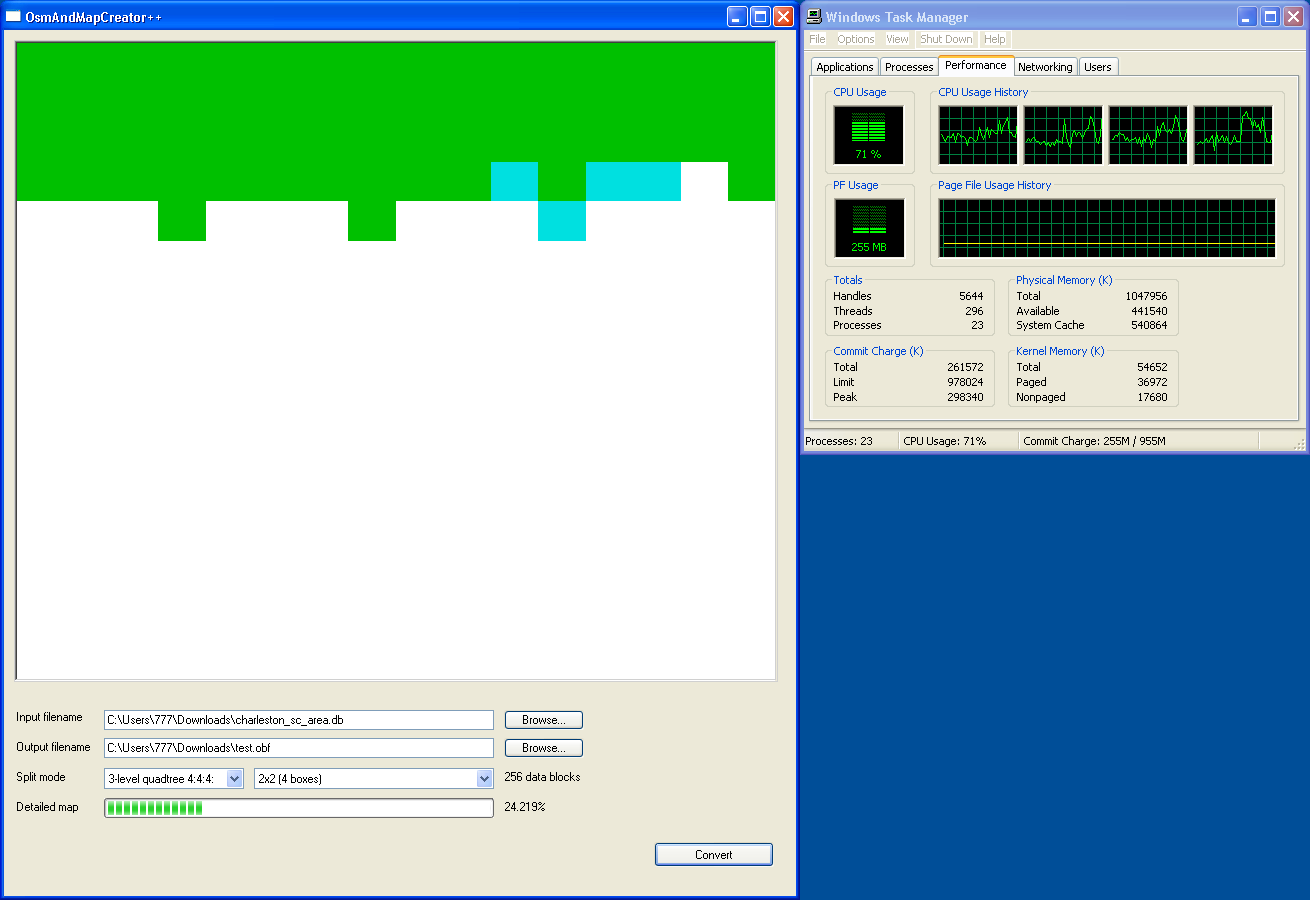
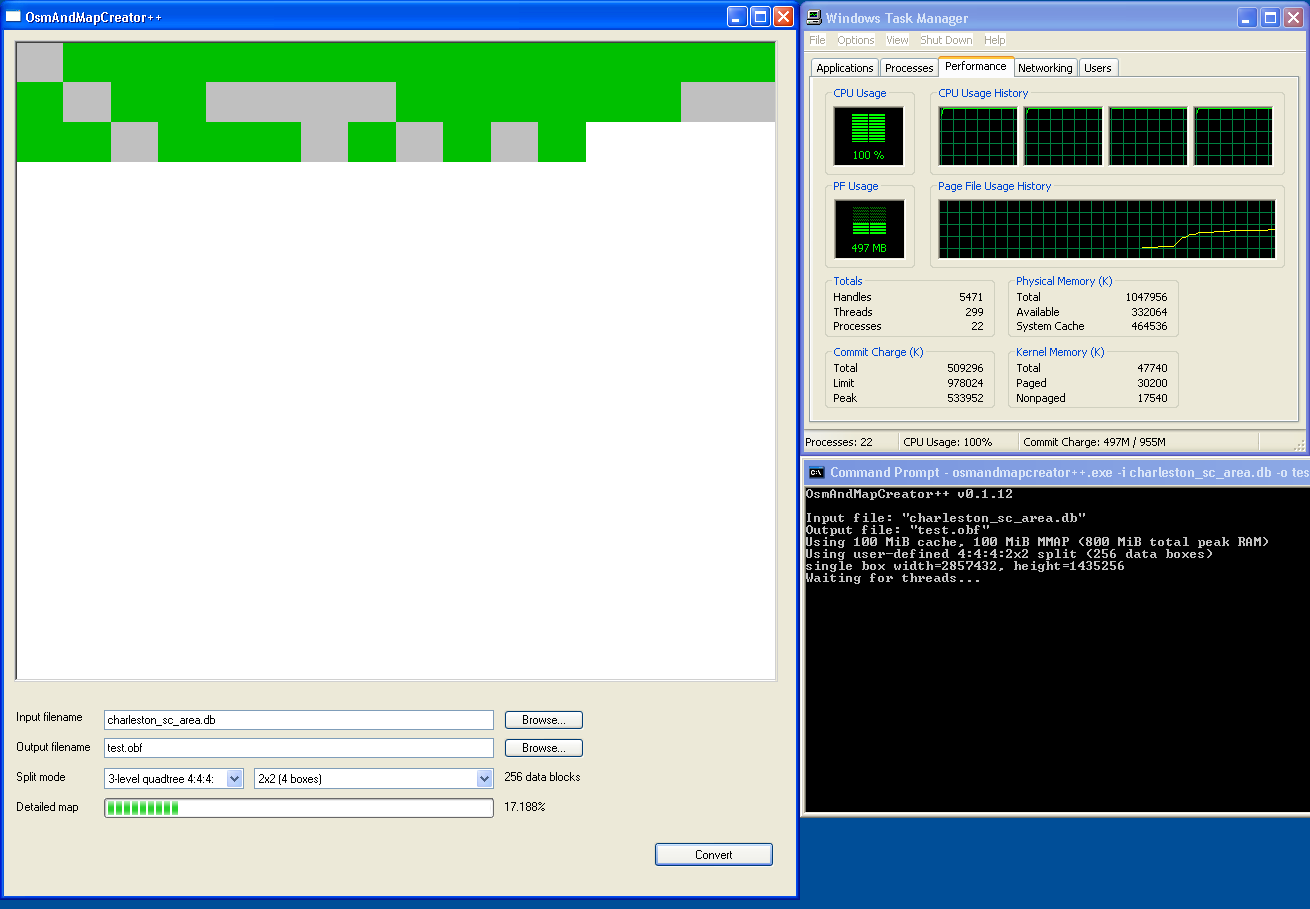
Add SQLite cache options

diff --git a/main.cpp b/main.cpp
@@ -232,6 +232,8 @@ static bool shouldShowGUI = true;
 static unsigned int guiSelectedQuadtreeSplit = 0;
 static unsigned int guiSelectedSplitWithinQuadtree = 0;
 uint32_t pid = 0;
+uint64_t sqliteCacheSizeMiBPerThread = 64;
+uint64_t sqliteMMAPSizeMiBPerThread = 64;
 
 #define ID_STARTBTN 1
 #define ID_INPUT_FILENAME_FIELD 2
@@ -275,7 +277,7 @@ bool foundInputFilenameArgument = false;
 bool foundOutputFilenameArgument = false;
 
 int main(int argc, char** argv) {
-	cout << "OsmAndMapCreator++ v0.1.11" << endl;
+	cout << "OsmAndMapCreator++ v0.1.12" << endl;
 	#if defined(_WIN32)
 		pid = GetCurrentProcessId();
 	#elif defined(__linux__)
@@ -345,6 +347,16 @@ int main(int argc, char** argv) {
 			
 			if ((arg_view == "-verbose"sv || arg_view == "--verbose"sv || arg_view == "/verbose"sv)) {
 				verbose = true;
+			}
+
+			if ((arg_view == "-cache-size"sv || arg_view == "--cache-size"sv || arg_view == "/cache-size"sv) && i < (argc - 1)) {
+				sqliteCacheSizeMiBPerThread = atoi(argv[i + 1]);
+				if (sqliteCacheSizeMiBPerThread == 0) sqliteCacheSizeMiBPerThread = 64;
+			}
+
+			if ((arg_view == "-mmap-size"sv || arg_view == "--mmap-size"sv || arg_view == "/mmap-size"sv) && i < (argc - 1)) {
+				sqliteMMAPSizeMiBPerThread = atoi(argv[i + 1]);
+				if (sqliteMMAPSizeMiBPerThread == 0) sqliteMMAPSizeMiBPerThread = 64;
 			}
 		}
 	}
@@ -449,6 +461,7 @@ void createOBFFile(void *param) {
 
 	cout << endl << "Input file: \"" << inputFilename << "\"";
 	cout << endl << "Output file: \"" << outputFilename << "\"";
+	cout << endl << "Using " << sqliteCacheSizeMiBPerThread << " MiB cache, " << sqliteMMAPSizeMiBPerThread << " MiB MMAP (" << ((sqliteCacheSizeMiBPerThread + sqliteMMAPSizeMiBPerThread) << 2) << " MiB total peak RAM)";
 
 	unique_ptr<unsigned char[]> fileCopyBufferUniquePtr = make_unique<unsigned char[]>(FILE_COPY_BUFFER_SIZE);
 	unique_ptr<unsigned char[]> coordinatesByteArrayTmpUniquePtr = make_unique<unsigned char[]>(1048576);
@@ -784,7 +797,7 @@ void calculateTotalRectanglesForGUI() {
 #endif
 
 void printHelp() {
-	cout << "OsmAndMapCreator++ version 0.1.11";
+	cout << "OsmAndMapCreator++ version 0.1.12";
 	cout << endl << endl << "This utility generates OBF map files for OsmAnd from an OpenStreetMap SQLite database";
 	cout << endl << endl << "Usage:";
 	cout << endl << "\t-i [path]\t\t\t\tInput filename (required)";
@@ -794,6 +807,9 @@ void printHelp() {
 	cout << endl << "\t--force-quadtree2-split [integer]\tForce a 2-level quadtree split with a power-of-2 split in each section (for example, 2 would be 4:4:4x4). Takes precedence when combined with --force-single-split";
 	cout << endl << "\t--force-quadtree3-split [integer]\tForce a 3-level quadtree split with a power-of-2 split in each section (for example, 2 would be 4:4:4:4x4). Takes precedence when combined with --force-quadtree2-split or --force-single-split";
 	cout << endl << "\t--no-gui\t\t\t\tOnly show the command-line window";
+	cout << endl << "\t--verbose\t\t\t\tPrint debug messages";
+	cout << endl << "\t--cache-size\t\t\t\tSQLite per-thread cache size in MiB (default 64)";
+	cout << endl << "\t--mmap-size\t\t\t\tSQLite per-thread memory-mapped file size in MiB (default 64)";
 	cout << endl << "\t-h\t\t\t\t\tPrint this message";
 }
 
@@ -2144,6 +2160,9 @@ void writeOsmAndStructure_mapIndex_levels_block_SingleSplitThreadWorker(void *pa
 	char *errorMessage = 0;
 	//Get a list of all the way ID's
 	//Use the first node to see if the way should be included in the current block
+	sqlite3_exec(ptr->dbConnection, string("PRAGMA cache_size = -" + to_string(sqliteCacheSizeMiBPerThread << 10) + ";").c_str(), NULL, 0, &errorMessage);
+	sqlite3_exec(ptr->dbConnection, string("PRAGMA mmap_size = " + to_string(sqliteMMAPSizeMiBPerThread << 20) + ";").c_str(), NULL, 0, &errorMessage);
+	sqlite3_exec(ptr->dbConnection, "PRAGMA journal_mode=WAL;", NULL, 0, &errorMessage);
 	sqlite3_exec(ptr->dbConnection, "CREATE TEMP TABLE waysWithinRectangle (way_id INTEGER PRIMARY KEY);", NULL, 0, &errorMessage);
 	if (!ptr->mediumZoom) {
 		sqlite3_prepare_v2(ptr->dbConnection, "INSERT INTO waysWithinRectangle (way_id) SELECT w.way_id FROM way_nodes w INNER JOIN rtree_node r ON r.node_id = w.node_id WHERE w.node_order = 1 AND r.max_lat >= :bottom AND r.min_lat <= :top AND r.max_lon >= :left AND r.min_lon <= :right;", -1, &waysWithinRectangleStmt, 0);

diff --git a/README.md b/README.md
@@ -1,13 +1,16 @@
 OsmAndMapCreator++
 ==================
 
-OsmAndMapCreator++ is an unofficial utility that generates OsmAnd OBF maps from OpenStreetMap SQLite databases. It is written in C++ and designed to be small and efficient and support generating large areas like the entire southeast US as one map by reading everything from an SQLite database and storing temp files on the hard drive instead of trying to load everything in memory first like the official tool. Built with Clang 22.1.5 and Visual C++ 2017 and works on Windows XP x64 or higher
+OsmAndMapCreator++ is an unofficial utility that generates OsmAnd OBF maps from OpenStreetMap SQLite databases. It is written in C++ and designed to be small and efficient and support generating large areas like the entire southeast US as one map by reading everything from an SQLite database and storing temp files on the hard drive instead of trying to load everything in memory first like the official tool. Built with Clang 22.1.5 and Visual C++ 2017 and works on Windows XP x64 or higher and Debian Linux
 
 #### How to use
 1. Download or generate an OSM PBF file. For example, you could use an extract from Geofabrik
 2. Use my pbf2sqlite fork and run **pbf2sqlite64.exe \[database file\] read \[PBF file\] index rtree_all addr graph** to convert it to an SQLite database. The output should be around 24 times the size of the PBF file. My PBF file of the southeast US is 2.82 GiB and the vacuumed DB file is 67.28 GiB. You need to use my fork since it adds all nodes to the RTree and skips adding RTree entries for ways and nodes with null latitude and longitude values. The official version skips untagged nodes for the "rtree" option which breaks this program's bounding box searches and converts null coordinates to 0 which makes the bounding boxes huge so almost everything is in just a few boxes and you can't just filter that because then you would break areas that include the equator
 3. (Recommended) Run the VACUUM SQL command to optimize the database. You can use VACUUM INTO if you need to use a 2nd drive
 4. Run **osmandmapcreator++.exe** with "-i \[input file\]" and optionally "-o \[output file\]". You can also just drag a \*.db file onto the EXE
+
+#### RAM usage
+You can control how much memory is used with the **--cache-size** and **--mmap-size** flags. These are per-thread and measured in MiB. Using more memory greatly speeds up the process since SQLite uses a tiny cache by default. Using a larger cache makes a huge difference even if you're working from an SSD. The default is 64 MiB for both which uses up to about 512 MiB of memory
 
 <br>Using all 4 cores on an Intel Core 2 Quad Q9550 in a VM with 1 GB of RAM
 
